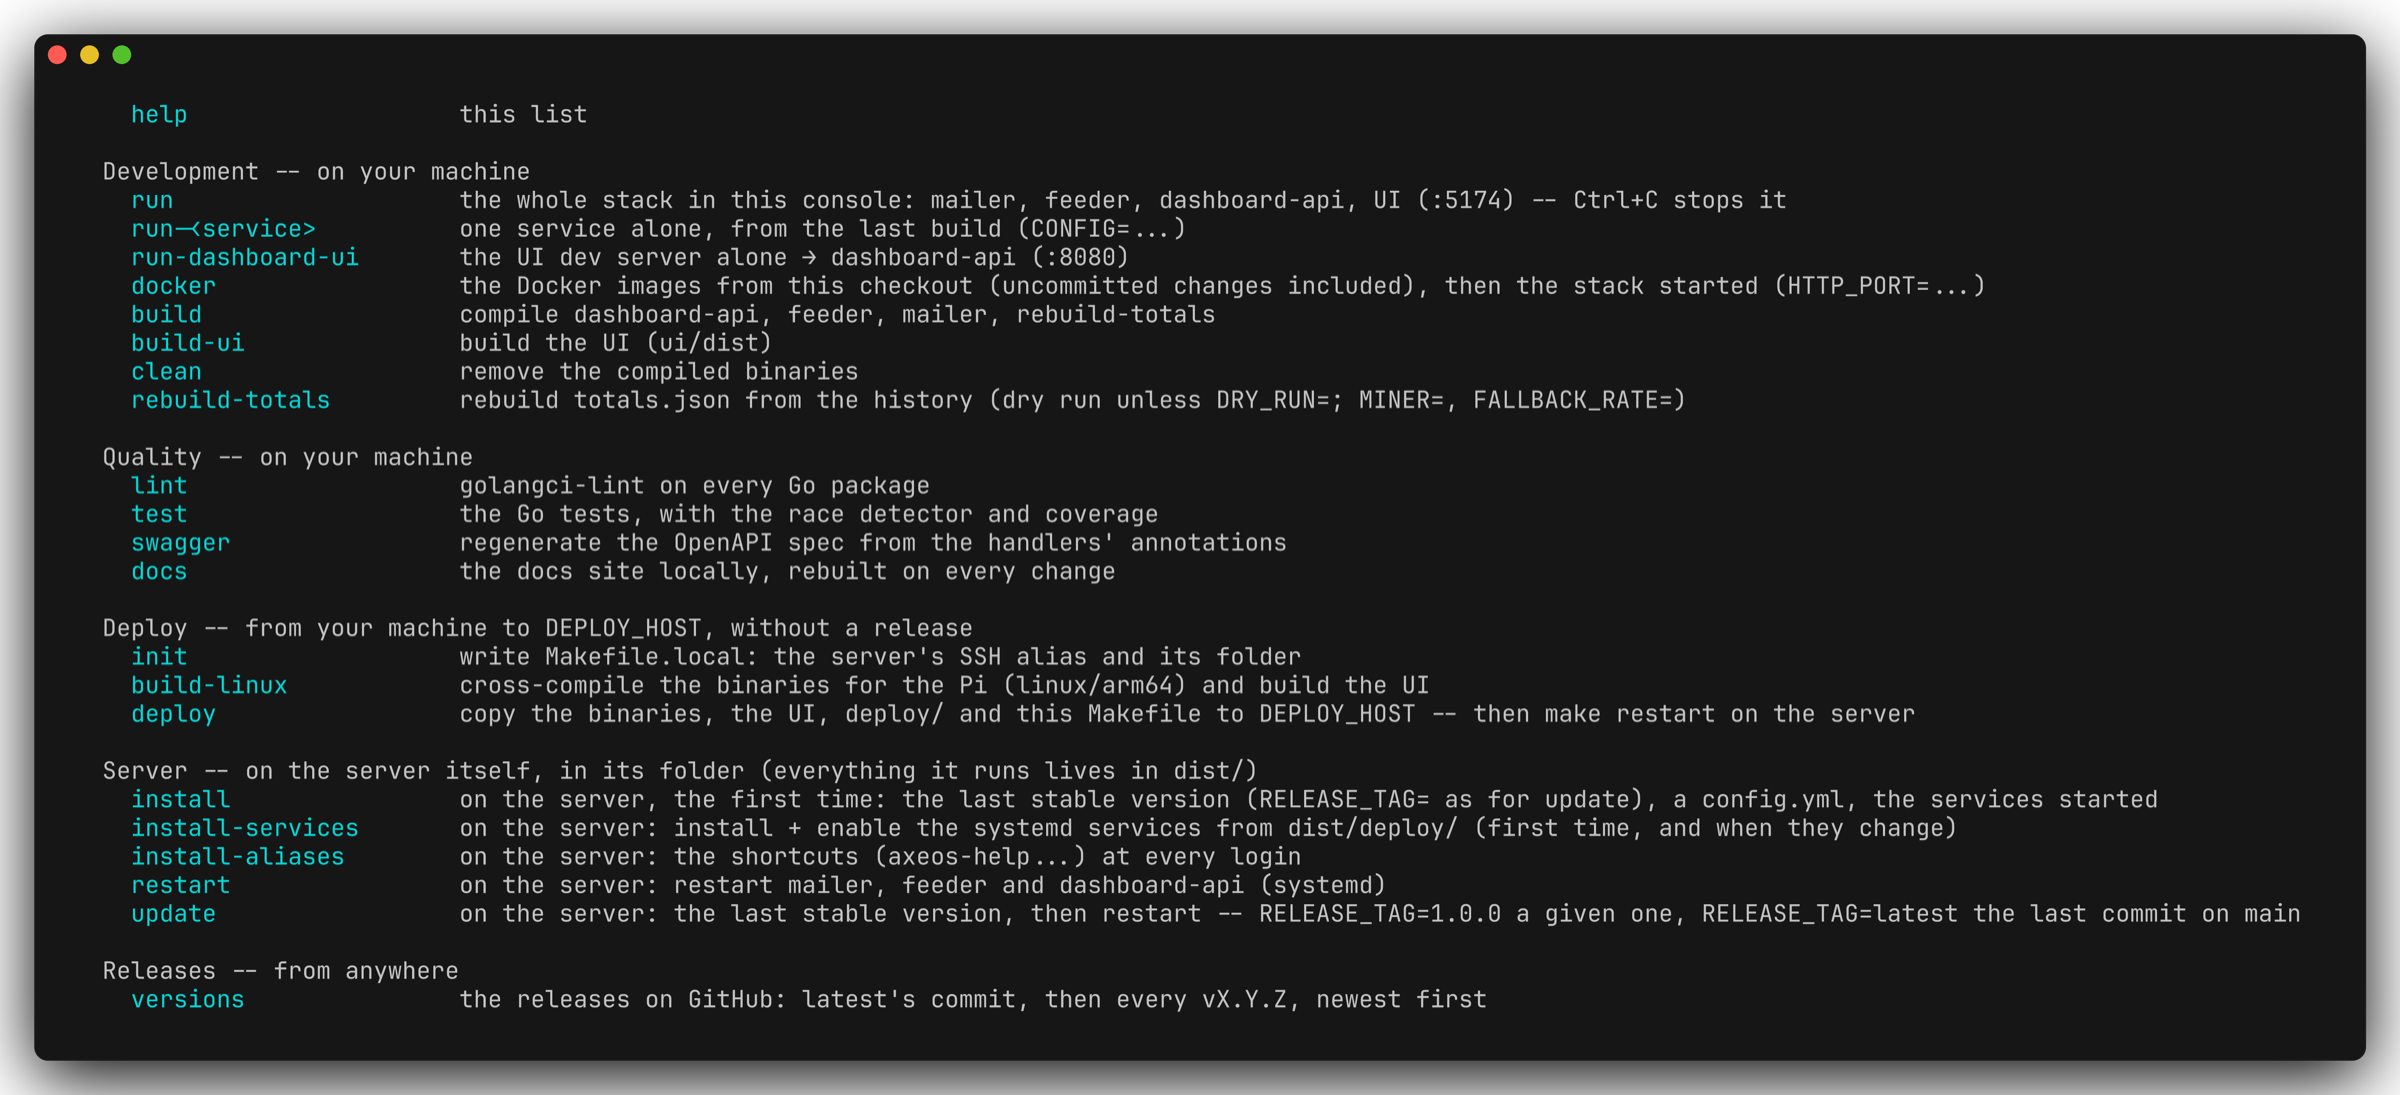
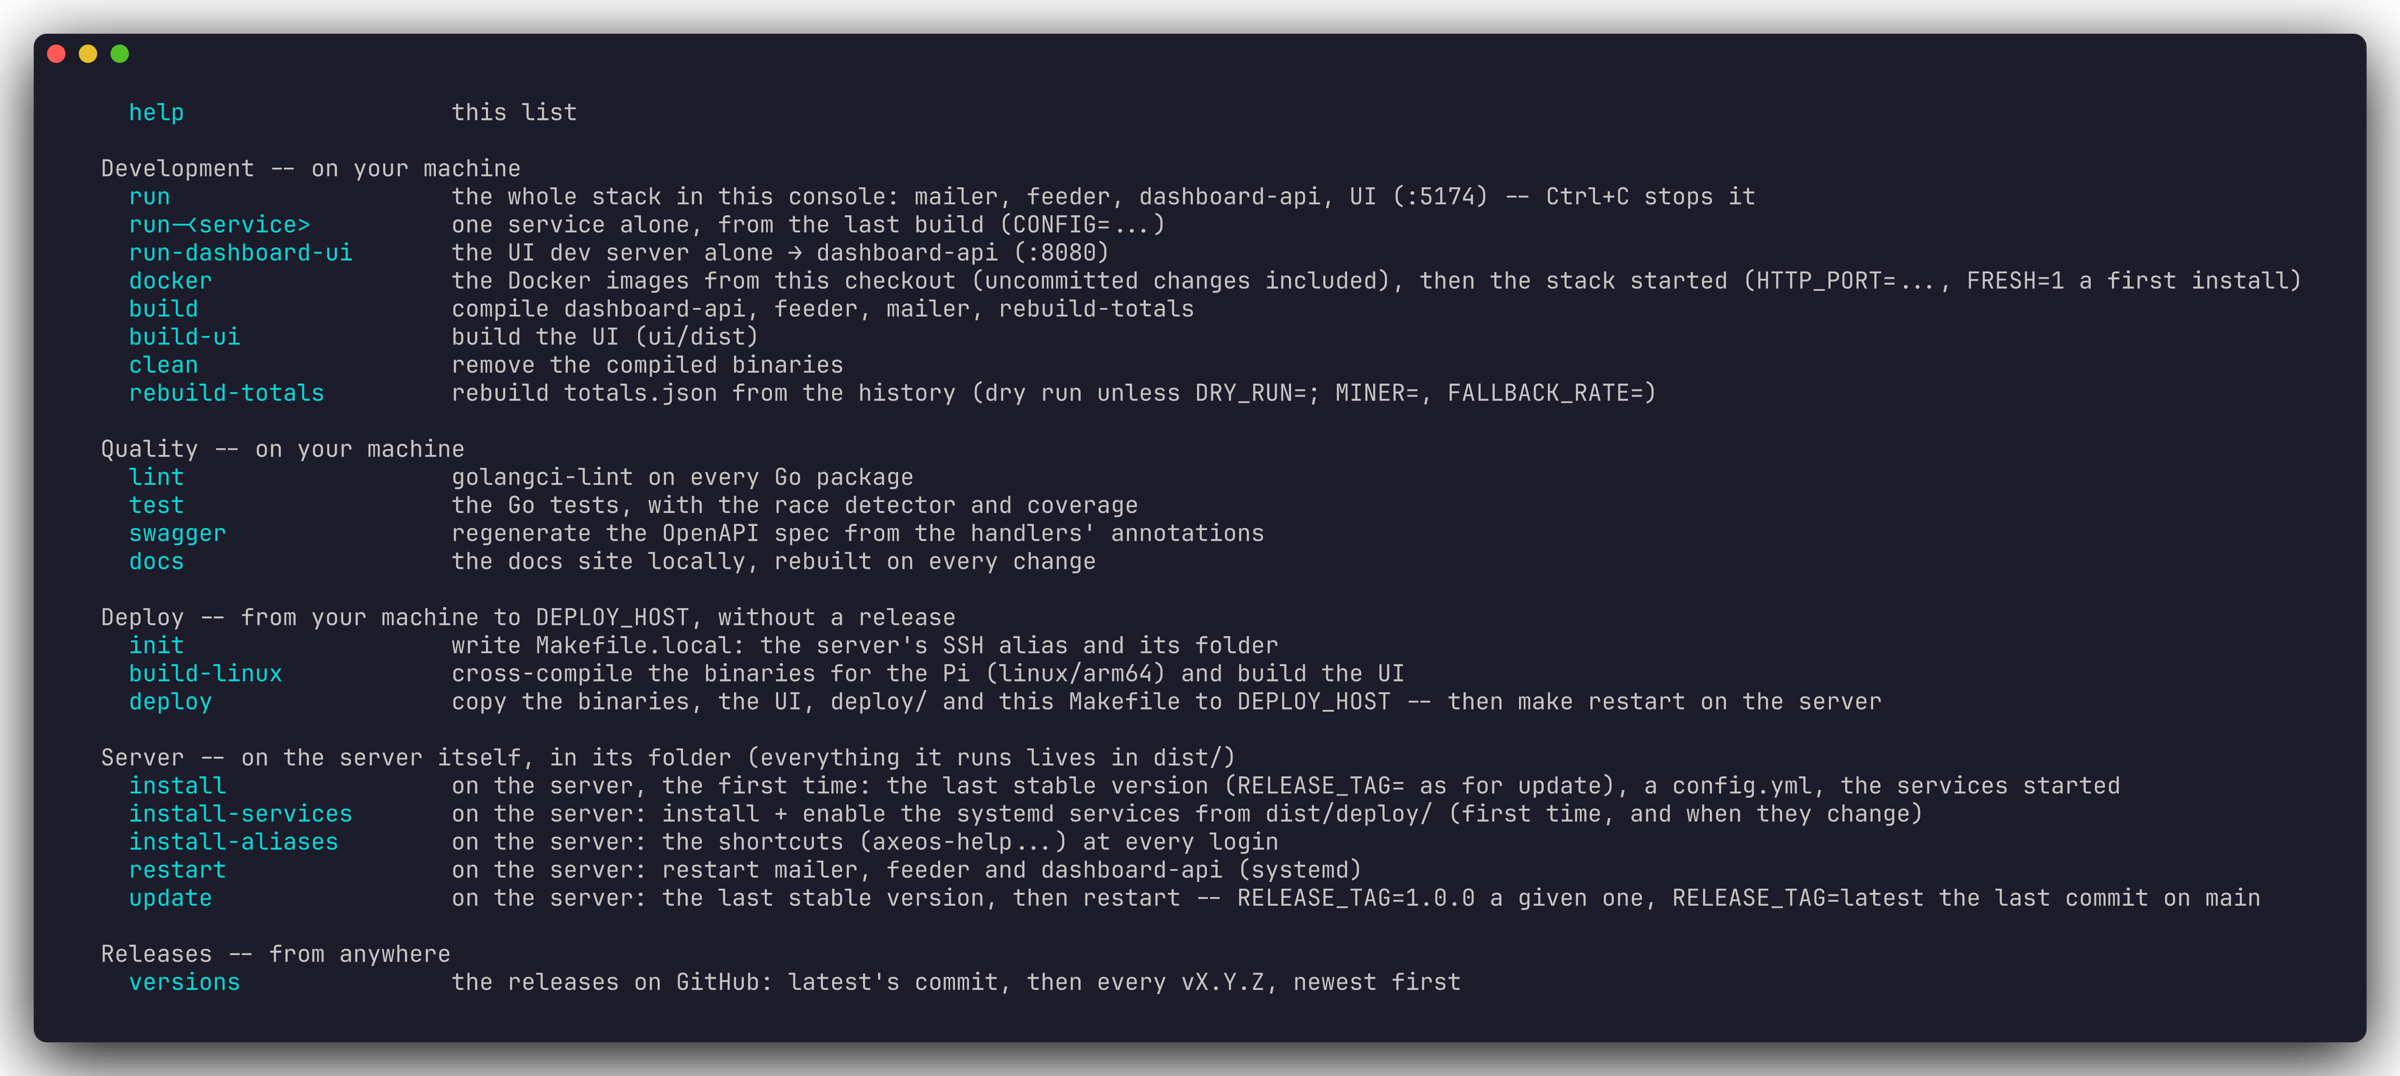
feat: make docker FRESH=1, a first install in a new folder under /tmp
./axeos-dashboard/ is left as it is for the next make docker. The make
help image gets the app's background, and the README says how it's made.

diff --git a/docs/dev.md b/docs/dev.md
@@ -49,6 +49,18 @@ utilisé par défaut (fixez-en un avec `HTTP_PORT`) :
 Relancer `make docker` après une modification reconstruit les images et
 redémarre les containers avec le code à jour.
 
+Pour repartir d'une première installation — aucun mineur, aucune donnée —
+`FRESH=1` utilise un nouveau dossier sous `/tmp` à la place de
+`./axeos-dashboard/`, qui reste tel quel pour le prochain `make docker` :
+
+<div class="terminal-card">
+  <div class="terminal-card-header">
+    <span class="terminal-card-icon">&gt;_</span>
+    <span class="terminal-card-title">Terminal</span>
+  </div>
+  <pre class="terminal-card-body"><span class="term-command">$ make docker FRESH=1</span></pre>
+</div>
+
 La stack de dev a ses propres noms, quel que soit le dossier d'où elle est
 lancée : le projet `axeos-dashboard-dev` et les containers
 `axeos-dev-services` et `axeos-dev-dashboard`. Elle tourne donc à côté

diff --git a/docs/en/dev.md b/docs/en/dev.md
@@ -50,6 +50,18 @@ default (pin one with `HTTP_PORT`):
 Re-running `make docker` after a change rebuilds the images and restarts
 the containers with the up-to-date code.
 
+To start from a first install — no miner, no data — `FRESH=1` uses a
+new folder under `/tmp` instead of `./axeos-dashboard/`, which stays as it
+is for the next `make docker`:
+
+<div class="terminal-card">
+  <div class="terminal-card-header">
+    <span class="terminal-card-icon">&gt;_</span>
+    <span class="terminal-card-title">Terminal</span>
+  </div>
+  <pre class="terminal-card-body"><span class="term-command">$ make docker FRESH=1</span></pre>
+</div>
+
 The dev stack has its own names, whatever folder it's started from: the
 project `axeos-dashboard-dev` and the containers `axeos-dev-services` and
 `axeos-dev-dashboard`. It thus runs next to a

diff --git a/CLAUDE.md b/CLAUDE.md
@@ -12,7 +12,7 @@ Naming: **board** is the word of the remote side -- what a board owns or reads i
 
 ## Commands
 
-`make` alone lists every target, by section -- the README shows it as an image: with any new, renamed or redescribed target, regenerate it with `freeze --execute "make" --window --border.radius 8 --shadow.blur 20 --shadow.y 10 --margin 20 --padding 20,40 --output readme/make-help.png` (then `sips -Z 2400` it).
+`make` alone lists every target, by section -- the README shows it as an image: with any new, renamed or redescribed target, regenerate it with `freeze --execute "make" --window --background "#1e1e2a" --border.radius 8 --shadow.blur 20 --shadow.y 10 --margin 20 --padding 20,40 --output readme/make-help.png` (then `sips -Z 2400` it).
 
 ### Dev
 

diff --git a/README.md b/README.md
@@ -59,6 +59,14 @@ How the feeder, dashboard-api, mailer and UI fit together: the
 
 ![make's output: every command, by section and where it runs](readme/make-help.png)
 
+> [!NOTE]
+> Image generated with [freeze](https://github.com/charmbracelet/freeze), then resized with `sips`:
+>
+> ```bash
+> freeze --execute "make" --window --background "#1e1e2a" --border.radius 8 --shadow.blur 20 --shadow.y 10 --margin 20 --padding 20,40 --output readme/make-help.png
+> sips -Z 2400 readme/make-help.png
+> ```
+
 Details: the [Makefile page](https://joakim-ribier.github.io/axeos-dashboard/en/makefile.html). `dashboard.yml`'s
 fields: the [Installation page](https://joakim-ribier.github.io/axeos-dashboard/en/installation.html#config-file).
 
